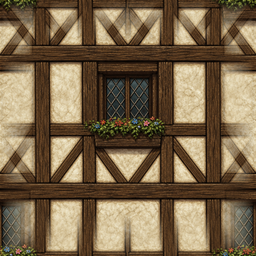
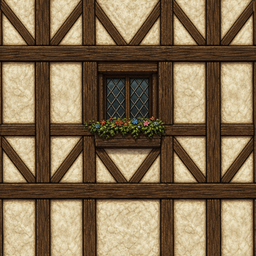
Door quad sorts ahead of its doorway's side walls; textures are OpenAI output as is, seamless post-process removed

Changed region(s): [[0.0, 0.0, 1.0, 1.0]]

diff --git a/tools/new-texture.py b/tools/new-texture.py
@@ -3,13 +3,12 @@
   python3 tools/new-texture.py                      interactive
   python3 tools/new-texture.py KIND NAME "DESC"...  one or more textures, no questions
 Uses $OPENAI_API_KEY or ~/.config/blobber/openai_key, else the Gemini key new-monster.py keeps. Writes
-assets/walls/<kind>_<name>.png (256x256, made seamless). A wall also gets a map character in
+assets/walls/<kind>_<name>.png (256x256; the model is asked for seamless output, nothing is post-processed). A wall also gets a map character in
 assets/walls/walls.txt, so it shows up in the editor's material palette; floors and ceilings show up
 in the editor's floor/ceiling row (a map picks one with a "floor NAME" / "ceiling NAME" line).
 OPENAI_IMAGE_MODEL overrides the model."""
 import base64, io, json, os, re, string, sys, urllib.error, urllib.request
 from pathlib import Path
-import numpy as np
 from PIL import Image
 
 MODEL = os.environ.get("OPENAI_IMAGE_MODEL", "gpt-image-2")
@@ -62,17 +61,6 @@ def generate(key, prompt):
         sys.exit(f"OpenAI error {e.code}: {e.read().decode()}")
 
 
-def seamless(img):
-    """Cross-fades the image with a copy shifted by half its size: the copy's edges wrap cleanly,
-    and it only shows near the edges, so the original's own seam stays hidden."""
-    a = np.asarray(img.convert("RGB"), dtype=np.float32)
-    h, w, _ = a.shape
-    shifted = np.roll(a, (h // 2, w // 2), axis=(0, 1))
-    ramp = lambda n: 1 - np.abs(np.linspace(-1, 1, n))  # 0 at the edges, 1 in the middle
-    wgt = np.clip(np.minimum.outer(ramp(h), ramp(w)) * 3, 0, 1)[..., None]
-    return Image.fromarray((a * wgt + shifted * (1 - wgt)).astype(np.uint8))
-
-
 def free_char():
     used = RESERVED | {l.split()[0] for l in TABLE.read_text().splitlines() if l.strip() and not l.startswith("#")}
     return next(c for c in string.ascii_uppercase + string.digits if c not in used)
@@ -96,7 +84,7 @@ def create(key, kind=None, name=None, desc=None):
         print(f"Generating {kind} texture…")
         png = generate(key, PROMPT.format(kind=kind, desc=desc, view=VIEW[kind]))
         (raw / "original.png").write_bytes(png)
-        tex = seamless(Image.open(io.BytesIO(png))).resize((SIZE, SIZE), Image.LANCZOS)
+        tex = Image.open(io.BytesIO(png)).convert("RGB").resize((SIZE, SIZE), Image.LANCZOS)
         tex.save(dest)
         preview = Image.new("RGB", (SIZE * 3, SIZE * 3))
         for i in range(9):

diff --git a/blobber.go b/blobber.go
@@ -1279,12 +1279,16 @@ func (g *Game) Draw(screen *ebiten.Image) {
 			q(vert{x0, -0.5, z0, 0, 0, 0, 0, 0}, vert{x1, -0.5, z0, 1, 0, 0, 0, 0}, vert{x1, -0.5, z1, 1, 1, 0, 0, 0}, vert{x0, -0.5, z1, 0, 1, 0, 0, 0}, texCeil, 3)
 		}
 		if Cell(cx, cy) == Door { // a door quad across the cell, square to the corridor it sits in
+			// Sorted a little nearer than the doorway's side walls, which share its centre: otherwise
+			// the two swap order as the camera sways and the walls flicker through the door.
+			bias = 0.25
 			zm, xm := (z0+z1)/2, (x0+x1)/2
 			if wall(cx-1, cy) && wall(cx+1, cy) {
 				q(vert{x0, -0.5, zm, 0, 0, 0, 0, 0}, vert{x1, -0.5, zm, 1, 0, 0, 0, 0}, vert{x1, 0.5, zm, 1, 1, 0, 0, 0}, vert{x0, 0.5, zm, 0, 1, 0, 0, 0}, mats[Door][0], 3)
 			} else {
 				q(vert{xm, -0.5, z0, 0, 0, 0, 0, 0}, vert{xm, -0.5, z1, 1, 0, 0, 0, 0}, vert{xm, 0.5, z1, 1, 1, 0, 0, 0}, vert{xm, 0.5, z0, 0, 1, 0, 0, 0}, mats[Door][0], 3)
 			}
+			bias = 0
 		}
 		// wall faces on the four sides of this floor cell, textured by how they face the camera
 		type side struct{ ax, az, bx, bz, nx, nz float64 }
